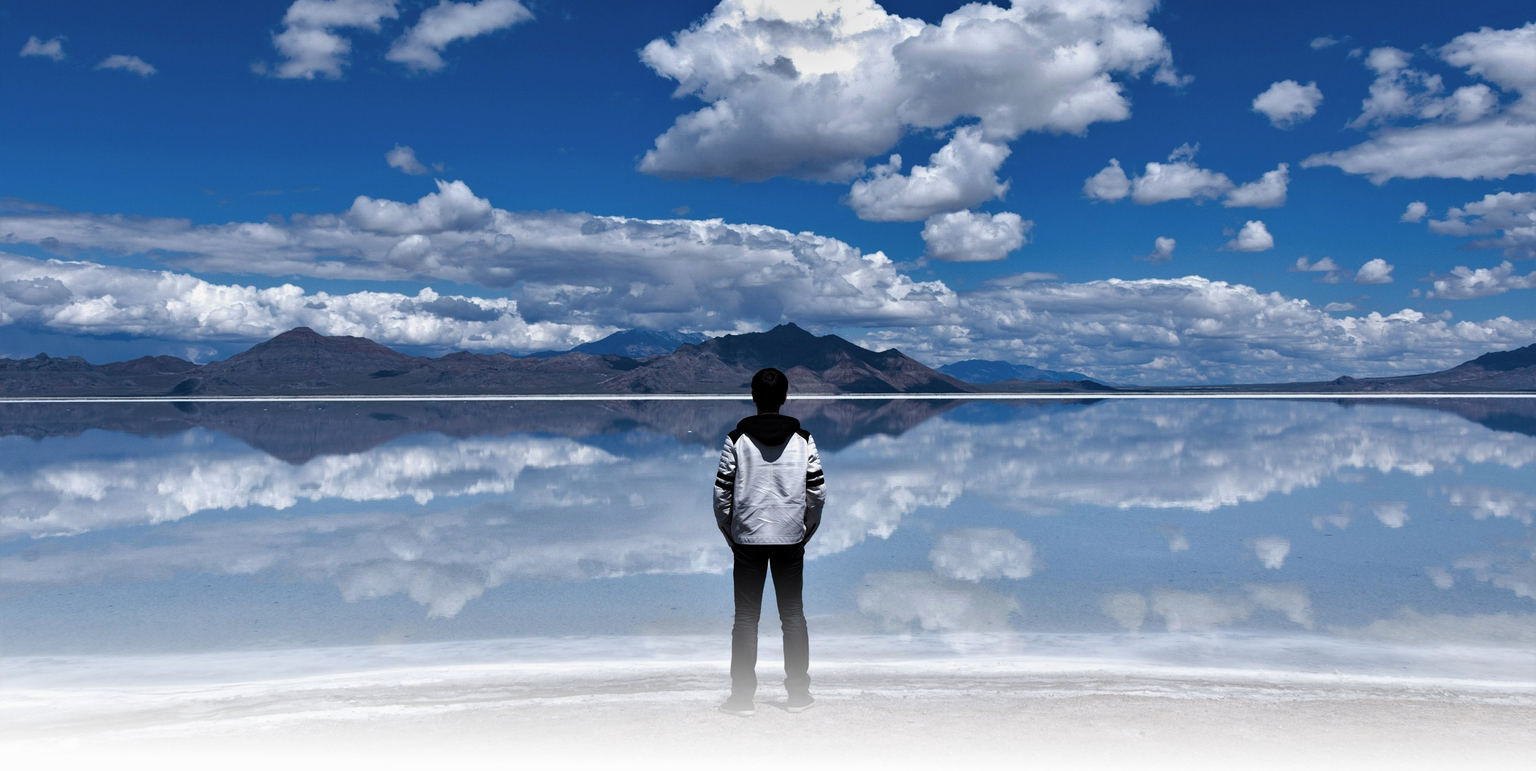
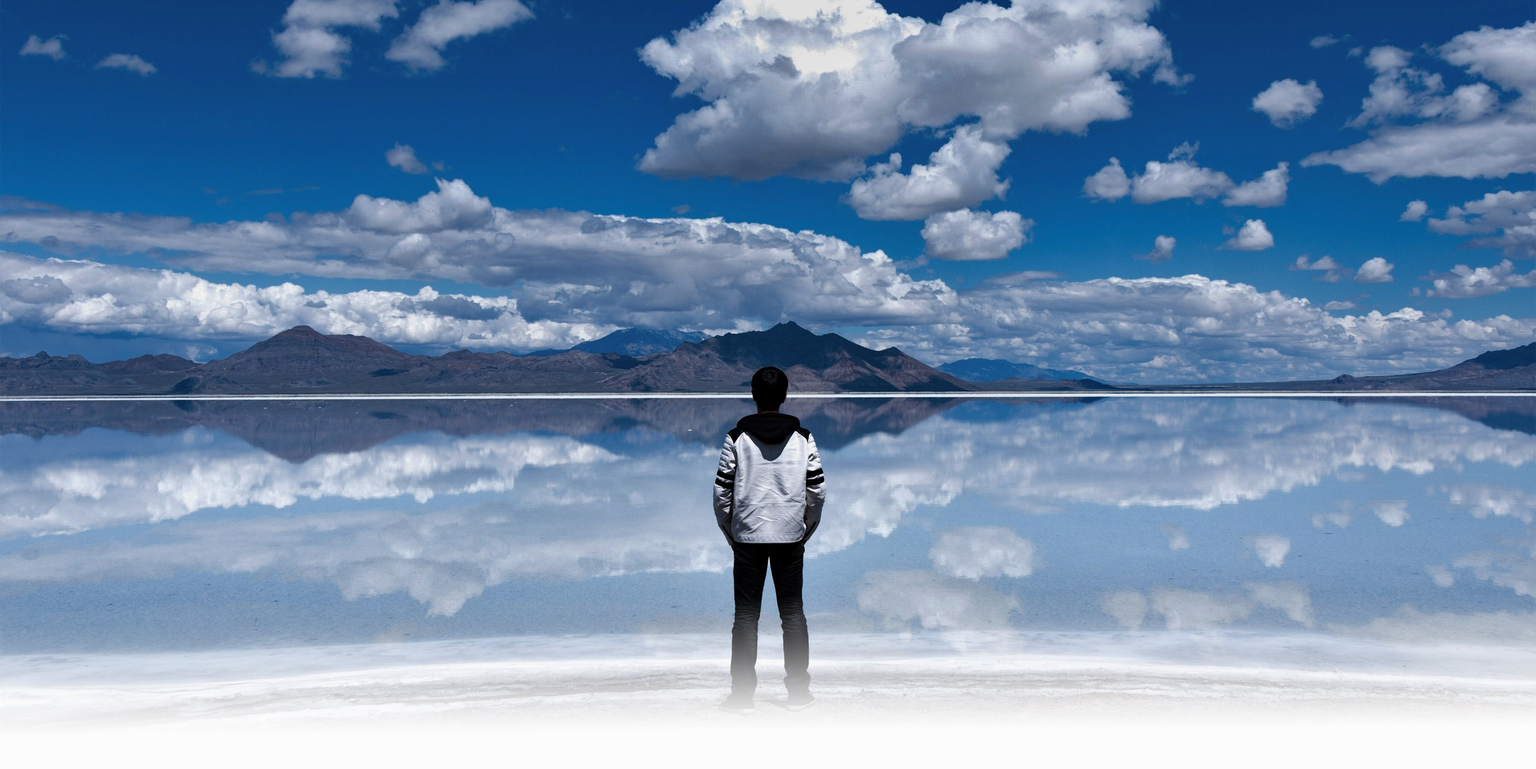
More fixing toward home background image

diff --git a/src/css/Home.css b/src/css/Home.css
@@ -8,7 +8,7 @@
 	-moz-background-size: cover;
 	-o-background-size: cover;
 	-webkit-background-size: cover;
-	min-height: 100vh;
+	min-height: 90vh;
 }
 
 .home-title {
@@ -60,7 +60,7 @@
 }
 
 .home-cards {
-	margin-top: -65px;
+	margin-top: -45px;
 }
 
 .home-intro-card {
